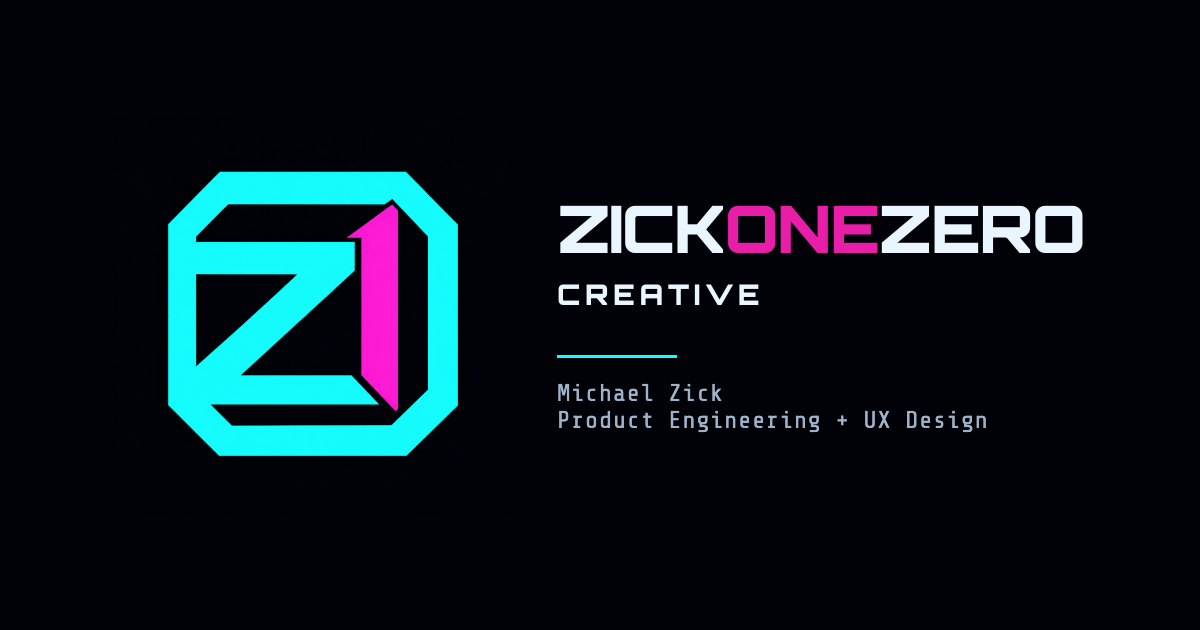
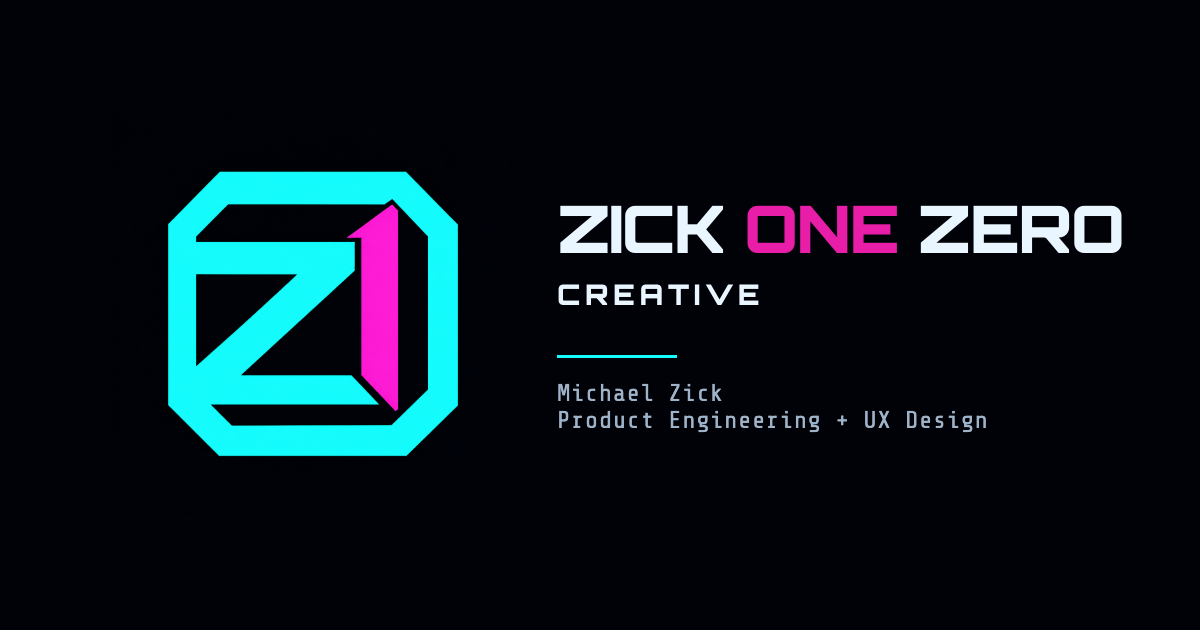
Spell the brand ZICK ONE ZERO (v1.9.1)
The wordmark, titles, og:site_name, descriptions, web manifest, JSON-LD,
share card, and contact email subject now read "ZICK ONE ZERO", with ONE
still in the accent color. The WebSite and Organization nodes keep the
one-word spelling as alternateName so search and AI engines tie the two
names to the same site.

Changed region(s): [[0.5858, 0.3016, 0.9558, 0.4222]]

diff --git a/__tests__/home-hero.test.tsx b/__tests__/home-hero.test.tsx
@@ -57,7 +57,7 @@ describe('Homepage city', () => {
     renderHome();
 
     const headline = screen.getByRole('heading', { level: 1 });
-    expect(headline).toHaveAccessibleName('Michael Zick is ZICKONEZERO Creative');
+    expect(headline).toHaveAccessibleName('Michael Zick is ZICK ONE ZERO Creative');
     expect(headline).toHaveAttribute('id', 'home-hero-title');
     expect(screen.getAllByRole('heading', { level: 1 })).toHaveLength(1);
     expect(headline.closest('section')).toHaveAttribute('aria-labelledby', 'home-hero-title');
@@ -71,7 +71,7 @@ describe('Homepage city', () => {
     renderHome();
 
     expect(screen.getByText(/Michael Zick is/)).toHaveTextContent(
-      'Michael Zick is ZICKONEZERO Creative',
+      'Michael Zick is ZICK ONE ZERO Creative',
     );
     expect(screen.getByText('I dream of the feature.')).toBeInTheDocument();
 
@@ -84,7 +84,7 @@ describe('Homepage city', () => {
       page_path: '/',
     });
 
-    const hero = screen.getByRole('region', { name: 'Michael Zick is ZICKONEZERO Creative' });
+    const hero = screen.getByRole('region', { name: 'Michael Zick is ZICK ONE ZERO Creative' });
     expect(within(hero).getByRole('link', { name: 'Contact' })).toHaveAttribute('href', '/contact');
     expect(screen.queryByRole('link', { name: 'Jack In' })).not.toBeInTheDocument();
   });
@@ -166,7 +166,7 @@ describe('Homepage city', () => {
     expect(scroll).toHaveBeenLastCalledWith({ top: 0, behavior: 'auto' });
     expect(window.scrollY).toBe(0);
     expect(track).toHaveBeenLastCalledWith('link_click', expect.objectContaining({
-      link_location: 'top_nav', link_text: 'ZICKONEZERO Creative',
+      link_location: 'top_nav', link_text: 'ZICK ONE ZERO Creative',
     }));
 
     // The jump that was under way is over and cannot pull the page back down.
@@ -179,7 +179,7 @@ describe('Homepage city', () => {
     const club = screen.getByRole('link', { name: 'Bar Four' });
     expect(club).toHaveAttribute('href', '/bar-four');
     // The link follows the introduction's CTAs in tab order.
-    const hero = screen.getByRole('region', { name: 'Michael Zick is ZICKONEZERO Creative' });
+    const hero = screen.getByRole('region', { name: 'Michael Zick is ZICK ONE ZERO Creative' });
     const contact = within(hero).getByRole('link', { name: 'Contact' });
     expect(contact.compareDocumentPosition(club) & Node.DOCUMENT_POSITION_FOLLOWING).toBeTruthy();
 
@@ -215,7 +215,7 @@ describe('Homepage city', () => {
 
   it('replaces the overhead marquee with decorative distant towers', () => {
     const { container } = renderHome();
-    const hero = screen.getByRole('region', { name: 'Michael Zick is ZICKONEZERO Creative' });
+    const hero = screen.getByRole('region', { name: 'Michael Zick is ZICK ONE ZERO Creative' });
 
     expect(hero.querySelector('.banner, .ticker-track')).toBeNull();
     const towers = container.querySelectorAll('.distant-tower');

diff --git a/__tests__/seo.test.tsx b/__tests__/seo.test.tsx
@@ -40,12 +40,12 @@ describe('Seo', () => {
 
   it('applies the title template for interior pages', () => {
     render(<Seo title='About Michael Zick' path='/about/' />);
-    expect(document.title).toBe('About Michael Zick | ZICKONEZERO Creative');
+    expect(document.title).toBe('About Michael Zick | ZICK ONE ZERO Creative');
   });
 
   it('uses the brand and tagline as the home page title when no title is provided', () => {
     render(<Seo path='/' />);
-    expect(document.title).toBe('ZICKONEZERO Creative | Product, UX & Development');
+    expect(document.title).toBe('ZICK ONE ZERO Creative | Product, UX & Development');
   });
 
   it('exposes an absolute og:image URL by default', () => {
@@ -69,7 +69,7 @@ describe('Seo', () => {
 
   it('falls back to a brand alt for the default og:image', () => {
     render(<Seo path='/' />);
-    expect(document.querySelector('meta[property="og:image:alt"]')?.getAttribute('content')).toMatch(/ZICKONEZERO/);
+    expect(document.querySelector('meta[property="og:image:alt"]')?.getAttribute('content')).toMatch(/ZICK ONE ZERO/);
   });
 
   it('omits image alt tags when a custom image has no alt', () => {
@@ -149,6 +149,14 @@ describe('Seo', () => {
   it('uses the trailing-slash home URL for the site and the person', () => {
     expect(webSiteJsonLd().url).toBe(`${ORIGIN}/`);
     expect(personJsonLd().url).toBe(`${ORIGIN}/`);
+  });
+
+  it('names the brand ZICK ONE ZERO and keeps the one-word spelling as an alternate', () => {
+    const organization = personJsonLd().worksFor as Record<string, unknown>;
+    for (const node of [webSiteJsonLd(), organization]) {
+      expect(node.name).toBe('ZICK ONE ZERO Creative');
+      expect(node.alternateName).toEqual(['ZICKONEZERO Creative', 'ZICKONEZERO']);
+    }
   });
 
   it('omits the robots meta by default', () => {

diff --git a/scripts/render-share-card.js b/scripts/render-share-card.js
@@ -1,7 +1,7 @@
 #!/usr/bin/env node
 /**
  * Redraw the wordmark on the default share card, public/img/og/zickonezero-card.png,
- * in the homepage hero card's type: "ZICKONEZERO" over "CREATIVE", with the
+ * in the homepage hero card's type: "ZICK ONE ZERO" over "CREATIVE", with the
  * short divider under it in the logo's cyan.
  *
  * Only the wordmark band to the right of the logo and the divider change. The
@@ -45,8 +45,8 @@ const BAND = { left: 530, top: 180, width: WIDTH - 530, height: 170 };
 const DIVIDER = { left: 557, top: 355, width: 120, height: 3 };
 const LOGO_CYAN = '#15fcfd';
 
-// The hero title is 46.08px at 1440px wide. Scaled so the wordmark spans the
-// card's existing 560-1083px, it keeps the layout's balance.
+// The hero title is 46.08px at 1440px wide. Scaled so the old one-word wordmark
+// spanned 560-1083px; ZICK ONE ZERO now runs to about 1122px.
 const HERO_TITLE_PX = 46.08;
 const SCALE = 57 / HERO_TITLE_PX;
 const px = (value) => `${(value * SCALE).toFixed(2)}px`;
@@ -131,7 +131,7 @@ const html = () => `<!doctype html>
 <body>
   <div class="band"></div>
   <div class="divider"></div>
-  <h1 class="title"><span class="brand-name">ZICK<span class="brand-one">ONE</span>ZERO</span><span class="creative">Creative</span></h1>
+  <h1 class="title"><span class="brand-name">ZICK <span class="brand-one">ONE</span> ZERO</span><span class="creative">Creative</span></h1>
 </body>
 </html>`;
 

diff --git a/__tests__/city-gap-scene.test.tsx b/__tests__/city-gap-scene.test.tsx
@@ -91,10 +91,10 @@ describe('end-of-route city scene', () => {
     expect(crest).toHaveAttribute('lang', 'ja');
     expect(koi).toHaveTextContent('I dream of the feature');
 
-    // The carp carries the only lettering at night; nothing says ZICKONEZERO CREATIVE.
+    // The carp carries the only lettering at night; nothing says ZICK ONE ZERO CREATIVE.
     const lettering = [...koi.querySelectorAll('text')].map((text) => text.textContent);
     expect(lettering).toEqual(['I dream of the feature', '夢']);
-    expect(container.querySelector('.gap-night')).not.toHaveTextContent(/ZICKONEZERO|CREATIVE/i);
+    expect(container.querySelector('.gap-night')).not.toHaveTextContent(/ZICK ONE ZERO|CREATIVE/i);
 
     // The airship keeps its emblem and marquee.
     expect(container.querySelector('.ship-emblem-glyph')).toHaveAttribute('lang', 'ja');

diff --git a/src/components/Seo.tsx b/src/components/Seo.tsx
@@ -12,7 +12,7 @@ const SITE_TAGLINE = 'Product, UX & Development';
 // Intrinsic size and alt text of the default share image (the night hero), used when a page falls back to it.
 const DEFAULT_OG_IMAGE_WIDTH = 1200;
 const DEFAULT_OG_IMAGE_HEIGHT = 630;
-const DEFAULT_OG_IMAGE_ALT = 'ZICKONEZERO Creative wordmark beside the logo: a cyan Z and magenta 1 enclosed in a chamfered cyan zero';
+const DEFAULT_OG_IMAGE_ALT = 'ZICK ONE ZERO Creative wordmark beside the logo: a cyan Z and magenta 1 enclosed in a chamfered cyan zero';
 
 // Escape "<" so no string in the data can close the script tag early.
 const serializeJsonLd = (item: JsonLd) => JSON.stringify(item).replace(/</g, '\\u003c');

diff --git a/src/components/BrandName.tsx b/src/components/BrandName.tsx
@@ -1,10 +1,9 @@
 import { ReactElement } from 'react';
 
-// The text stays "ZICKONEZERO" so copy, search, and screen readers see one
-// word; only ONE is accent-colored (see `.brand-one` in styles/globals.scss)
-// to make the ZICK / ONE / ZERO parts easy to tell apart.
+// The brand reads "ZICK ONE ZERO" as three words; only ONE is accent-colored
+// (see `.brand-one` in styles/globals.scss) to set it apart from ZICK and ZERO.
 const BrandName = (): ReactElement => (
-  <span className='brand-name'>ZICK<span className='brand-one'>ONE</span>ZERO</span>
+  <span className='brand-name'>ZICK <span className='brand-one'>ONE</span> ZERO</span>
 );
 
 export default BrandName;

diff --git a/src/lib/seo.ts b/src/lib/seo.ts
@@ -1,4 +1,4 @@
-import { SITE_NAME, SITE_URL } from './siteConfig';
+import { SITE_ALTERNATE_NAMES, SITE_NAME, SITE_URL } from './siteConfig';
 
 export type JsonLd = Record<string, unknown>;
 
@@ -45,6 +45,7 @@ export const personJsonLd = (): JsonLd => ({
   worksFor: {
     '@type': 'Organization',
     name: SITE_NAME,
+    alternateName: SITE_ALTERNATE_NAMES,
   },
 });
 
@@ -52,6 +53,7 @@ export const webSiteJsonLd = (): JsonLd => ({
   '@context': 'https://schema.org',
   '@type': 'WebSite',
   name: SITE_NAME,
+  alternateName: SITE_ALTERNATE_NAMES,
   url: HOME_URL,
 });
 

diff --git a/pages/index.tsx b/pages/index.tsx
@@ -16,7 +16,7 @@ import { personJsonLd, webSiteJsonLd } from '../src/lib/seo';
 
 import type { WorksDataType } from '../src/types';
 
-const DESCRIPTION = 'Michael Zick is ZICKONEZERO Creative, a Product Engineer and UX designer. Explore case studies, product engineering, and web development work.';
+const DESCRIPTION = 'Michael Zick is ZICK ONE ZERO Creative, a Product Engineer and UX designer. Explore case studies, product engineering, and web development work.';
 
 const Home: NextPage<WorksDataType> = (props) => {
   const { worksDataReversed } = props;

diff --git a/__tests__/brand-name.test.tsx b/__tests__/brand-name.test.tsx
@@ -3,9 +3,9 @@ import { render } from '@testing-library/react';
 import BrandName from '../src/components/BrandName';
 
 describe('BrandName', () => {
-  it('keeps the brand spelled as one word', () => {
+  it('spells the brand as three words', () => {
     const { container } = render(<BrandName />);
-    expect(container).toHaveTextContent(/^ZICKONEZERO$/);
+    expect(container.textContent).toBe('ZICK ONE ZERO');
   });
 
   it('marks only ONE for accent styling', () => {

diff --git a/workers/contact/src/contact.ts b/workers/contact/src/contact.ts
@@ -81,7 +81,7 @@ export type ContactEmail = {
 const singleLine = (value: string) => value.replace(/[\r\n]+/g, ' ').trim();
 
 export function buildContactEmail(submission: ContactSubmission, submittedAt: Date = new Date()): ContactEmail {
-  const subject = `ZICKONEZERO contact: ${singleLine(submission.name)}`;
+  const subject = `ZICK ONE ZERO contact: ${singleLine(submission.name)}`;
   const text = [
     'New message from the zickonezero.com contact form.',
     '',

diff --git a/__tests__/contact-worker.test.ts b/__tests__/contact-worker.test.ts
@@ -56,7 +56,7 @@ describe('buildContactEmail', () => {
       new Date('2026-09-03T12:00:00.000Z'),
     );
 
-    expect(email.subject).toBe('ZICKONEZERO contact: Jane Bcc: evil@example.com');
+    expect(email.subject).toBe('ZICK ONE ZERO contact: Jane Bcc: evil@example.com');
     expect(email.subject).not.toMatch(/[\r\n]/);
     expect(email.text).toContain('Email: jane@example.com');
     expect(email.text).toContain('Sent: 2026-09-03T12:00:00.000Z');

diff --git a/pages/contact.tsx b/pages/contact.tsx
@@ -4,7 +4,7 @@ import { breadcrumbJsonLd, contactPageJsonLd } from '../src/lib/seo';
 
 const PATH = '/contact/';
 const TITLE = 'Contact';
-const DESCRIPTION = 'Get in touch with Michael Zick / ZICKONEZERO Creative about product, UX, and engineering work.';
+const DESCRIPTION = 'Get in touch with Michael Zick / ZICK ONE ZERO Creative about product, UX, and engineering work.';
 
 const ContactPage = () => (
   <>
